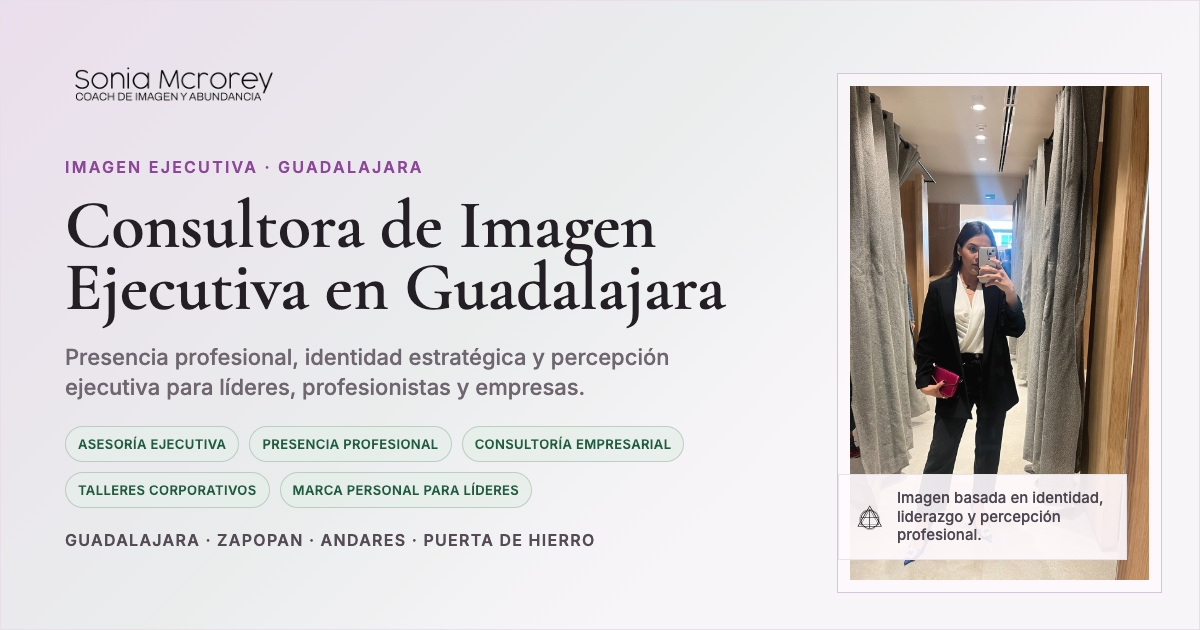
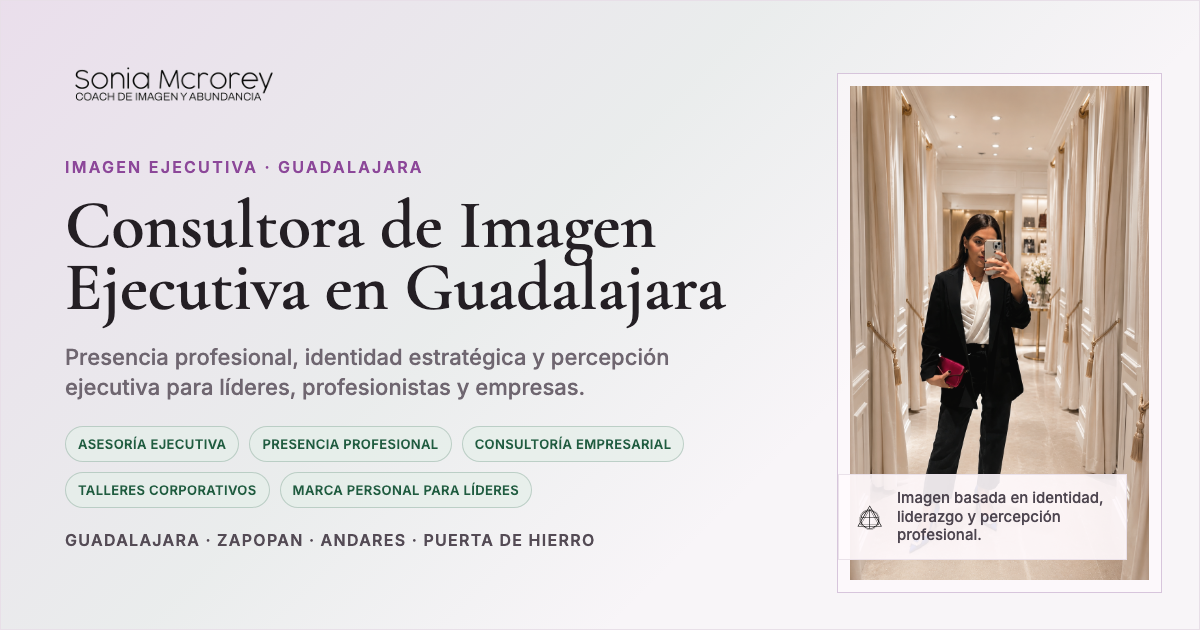
Use Sonia cream-room portrait across site

Changed region(s): [[0.7092, 0.1206, 0.9558, 0.9349], [0.7092, 0.8746, 0.74, 0.9349]]

diff --git a/index.html b/index.html
@@ -35,7 +35,7 @@
       content="Sonia McRorey: imagen ejecutiva, presencia profesional y consultoría empresarial en Guadalajara."
     />
     <meta name="theme-color" content="#f8f5f8" />
-    <link rel="preload" href="assets/sonia-editorial.jpg" as="image" />
+    <link rel="preload" href="assets/sonia-cream-room.png" as="image" />
     <link rel="stylesheet" href="styles.css" />
     <script type="application/ld+json">
       {
@@ -59,7 +59,7 @@
             "jobTitle": "Consultora de presencia ejecutiva y percepción profesional",
             "worksFor": { "@id": "https://imagencoach.com/#organization" },
             "url": "https://imagencoach.com/sobre-sonia-mcrorey-asesora-de-imagen",
-            "image": "https://imagencoach.com/assets/sonia-editorial.jpg",
+            "image": "https://imagencoach.com/assets/sonia-cream-room.png",
             "knowsAbout": [
               "imagen ejecutiva",
               "presencia profesional",
@@ -77,7 +77,7 @@
             "@id": "https://imagencoach.com/#professionalservice",
             "name": "Sonia McRorey Presencia Ejecutiva",
             "url": "https://imagencoach.com/",
-            "image": "https://imagencoach.com/assets/sonia-editorial.jpg",
+            "image": "https://imagencoach.com/assets/sonia-cream-room.png",
             "telephone": "+526646105348",
             "areaServed": ["Guadalajara", "Zapopan", "Jalisco", "México", "Online"],
             "founder": { "@id": "https://imagencoach.com/#sonia" },
@@ -88,7 +88,7 @@
             "@id": "https://imagencoach.com/#localbusiness",
             "name": "Sonia McRorey ImagenCoach",
             "url": "https://imagencoach.com/",
-            "image": "https://imagencoach.com/assets/sonia-editorial.jpg",
+            "image": "https://imagencoach.com/assets/sonia-cream-room.png",
             "areaServed": [
               "Guadalajara",
               "Zapopan",
@@ -244,7 +244,7 @@
           </p>
         </div>
         <figure class="hero-media">
-          <img src="assets/sonia-editorial.jpg" alt="Sonia McRorey, consultora de imagen ejecutiva en Guadalajara" />
+          <img src="assets/sonia-cream-room.png" alt="Sonia McRorey, consultora de imagen ejecutiva en Guadalajara" />
           <figcaption>
             <img src="assets/sonia-icon.svg" alt="" aria-hidden="true" />
             <span>Imagen ejecutiva y presencia profesional para líderes.</span>
@@ -462,7 +462,7 @@
 
       <section id="sonia" class="advisor section">
         <div class="advisor-media">
-          <img loading="lazy" src="assets/sonia-editorial.jpg" alt="Sonia McRorey, consultora de presencia ejecutiva en Guadalajara" />
+          <img loading="lazy" src="assets/sonia-cream-room.png" alt="Sonia McRorey, consultora de presencia ejecutiva en Guadalajara" />
         </div>
         <div class="advisor-copy">
           <div class="brand-symbol" aria-hidden="true">

diff --git a/assets/social-card.html b/assets/social-card.html
@@ -171,7 +171,7 @@
         <p class="location">Guadalajara · Zapopan · Andares · Puerta de Hierro</p>
       </section>
       <figure class="media">
-        <img src="sonia-editorial.jpg" alt="" />
+        <img src="sonia-cream-room.png" alt="" />
         <figcaption class="badge">
           <img src="sonia-icon.svg" alt="" />
           <span>Imagen basada en identidad, liderazgo y percepción profesional.</span>
